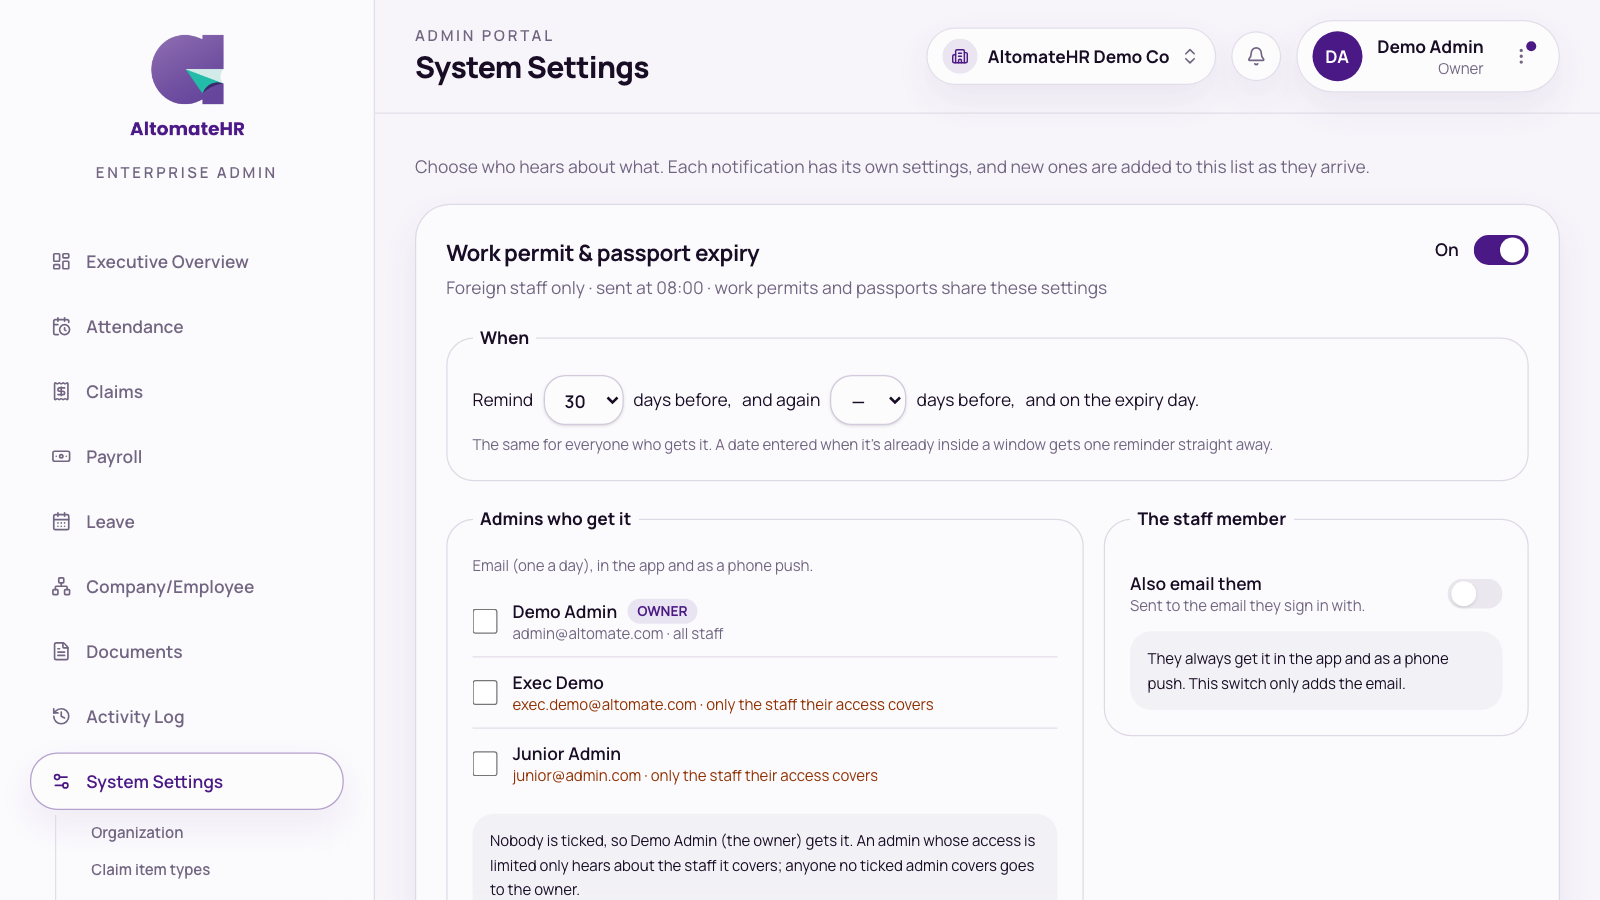
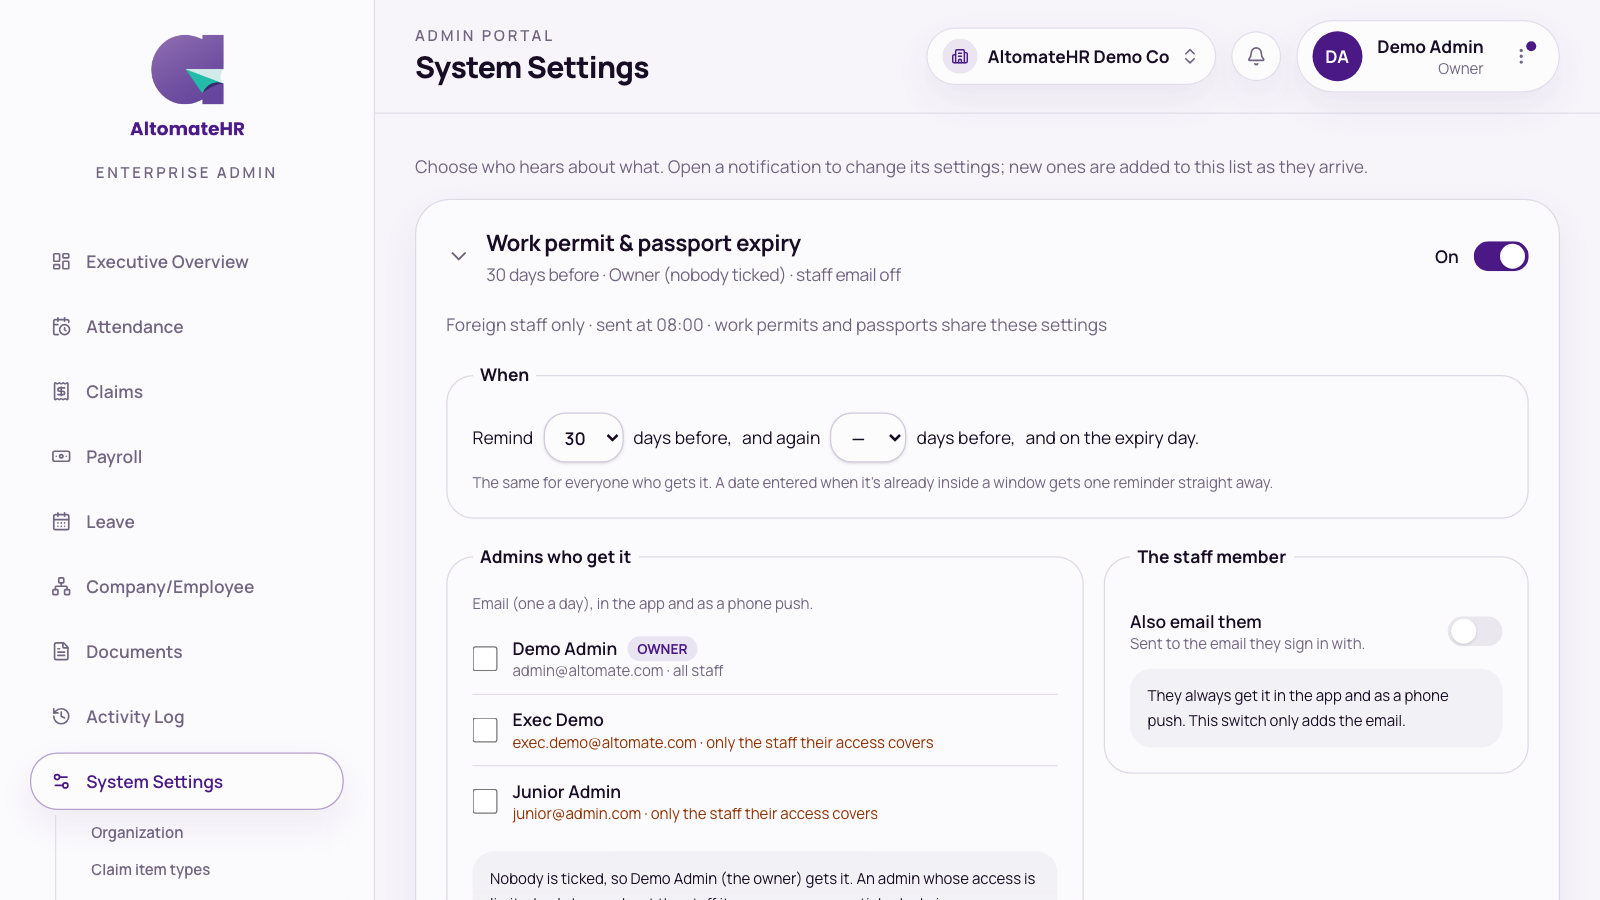
fix(settings): form takes saved values back; row stays put while saving
Retake the Notifications guide shot with the row opened.

Changed region(s): [[0.2812, 0.2489, 0.9062, 0.9956], [0.4375, 0.1556, 0.8438, 0.2178], [0.9062, 0.2489, 0.9688, 0.3111]]

diff --git a/frontend/src/features/settings/components/NotificationsSettings.tsx b/frontend/src/features/settings/components/NotificationsSettings.tsx
@@ -218,6 +218,9 @@ function NotificationRow({
       });
       setSaved(updated);
       setPicked(updated.adminUserIds);
+      setEmailStaff(updated.emailStaff);
+      setFirstDays(updated.firstReminderDays);
+      setSecondDays(updated.secondReminderDays);
       setJustSaved(true);
     } catch (err) {
       setError(err instanceof Error ? err.message : "Could not save.");
@@ -235,6 +238,9 @@ function NotificationRow({
           <button
             type="button"
             onClick={onToggleOpen}
+            // Not while a save is on its way: closing would reset the form to
+            // the old values just before the new ones come back.
+            disabled={saving}
             aria-expanded={open}
             aria-controls={panelId}
             className="-m-2 flex w-[calc(100%+1rem)] min-w-0 items-center gap-3 rounded-2xl p-2 text-left hover:bg-muted/40 focus-visible:outline-none focus-visible:ring-2 focus-visible:ring-primary"
